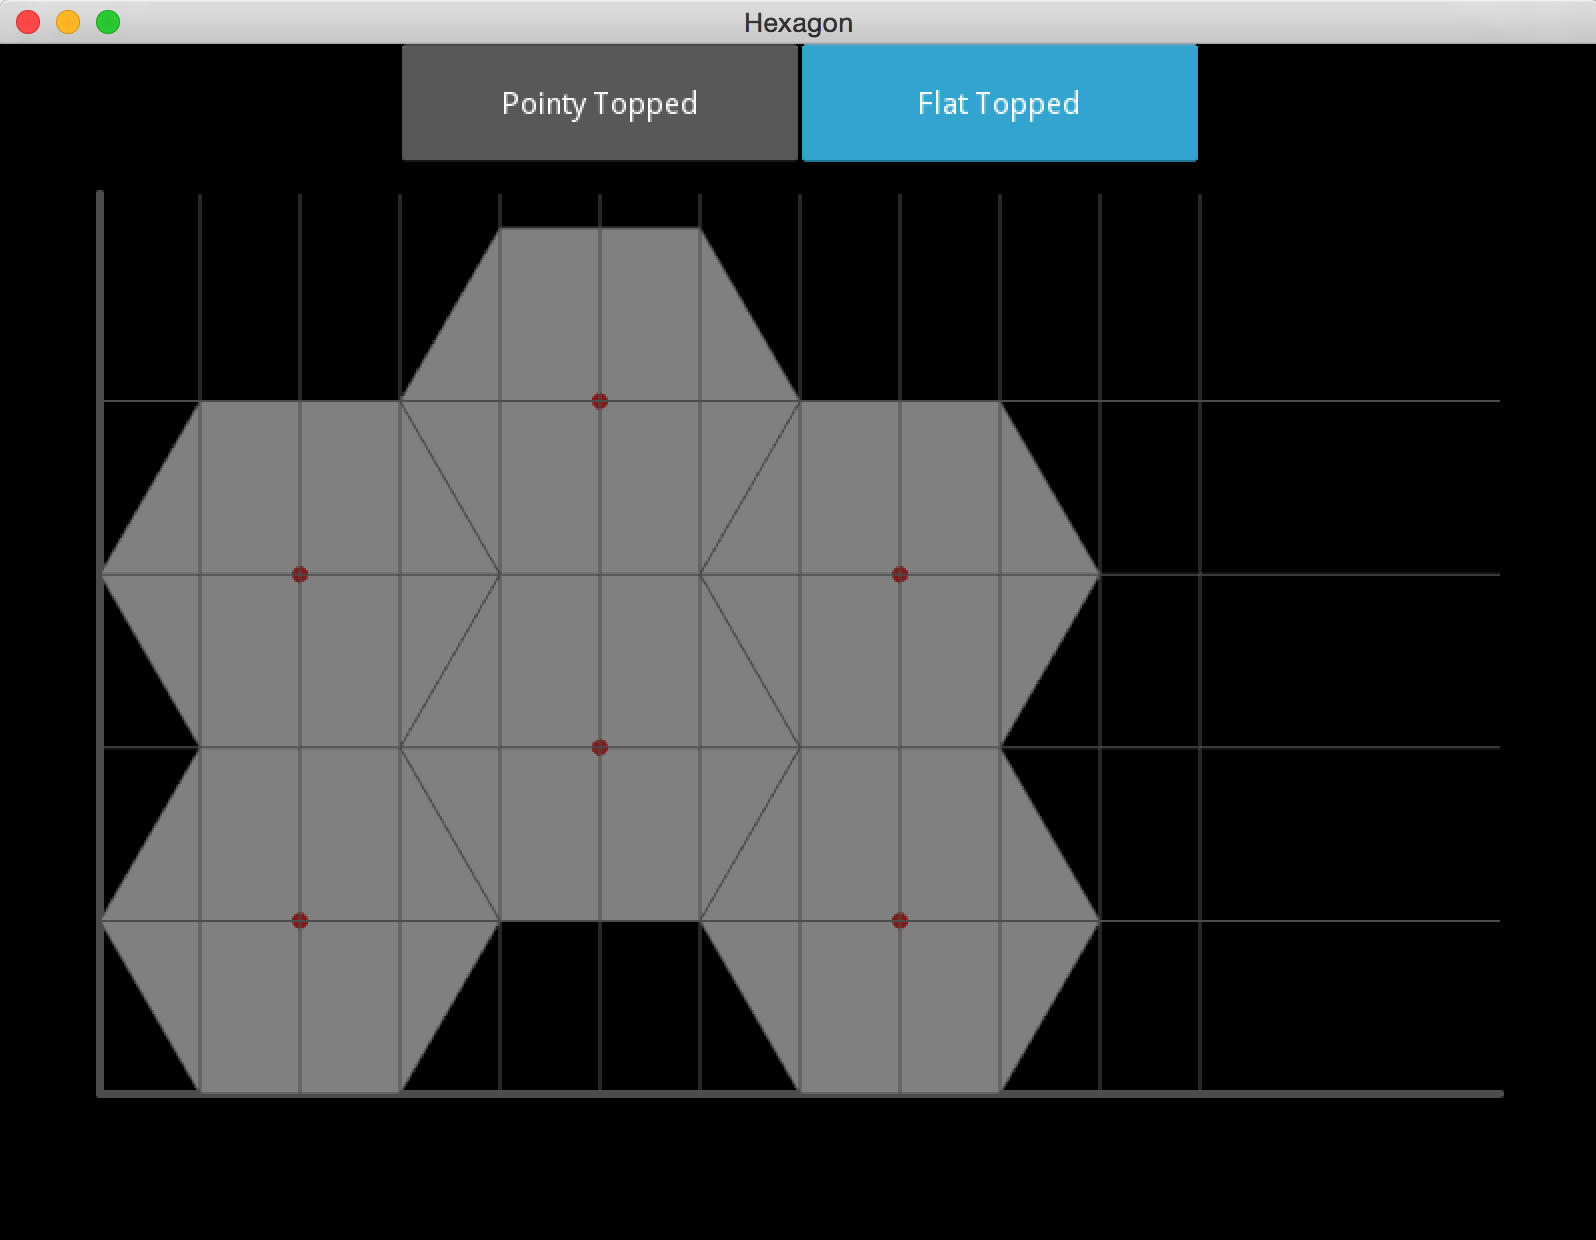
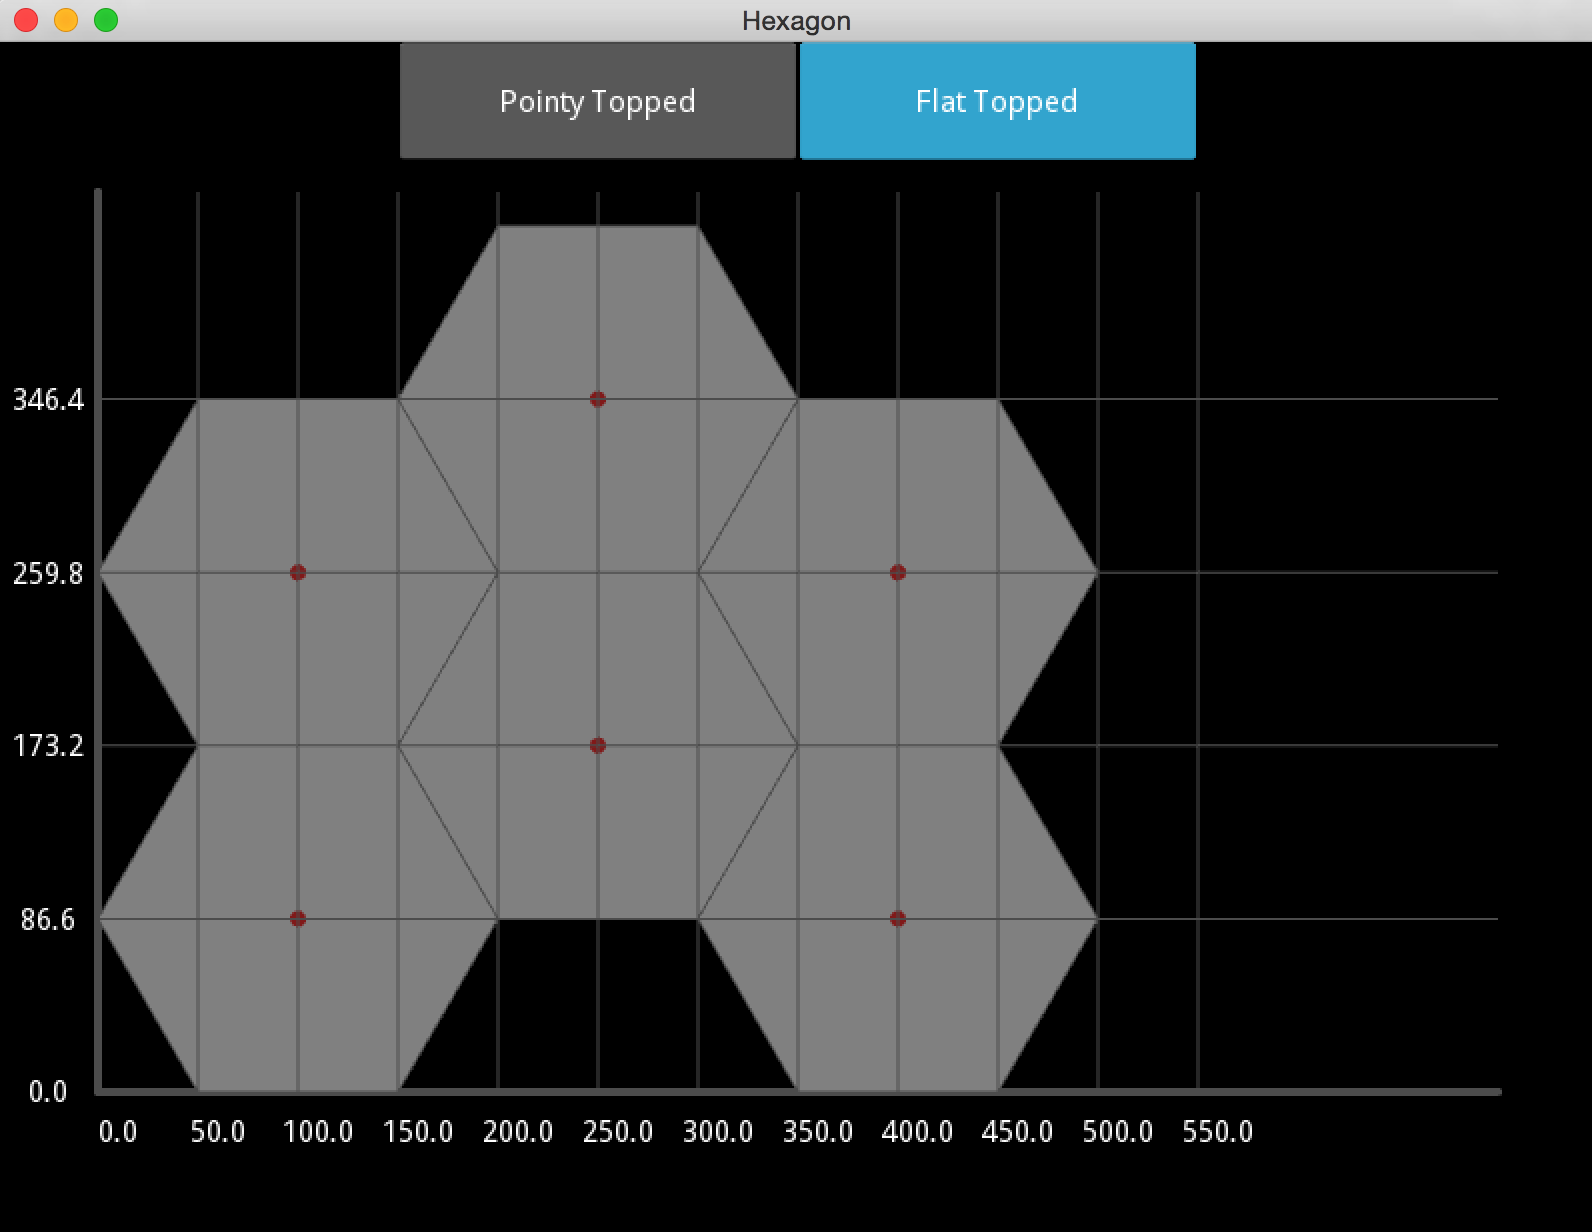
+ 눈금 표시

diff --git a/tutorials/013_hexagon_size_and_spacing/main.py b/tutorials/013_hexagon_size_and_spacing/main.py
@@ -247,6 +247,11 @@ class HexagonRoot(FloatLayout):
 
         self.bind(pos=self.render_canvas, size=self.render_canvas)
 
+        self.pool_v_line_labels = [Label(text="", pos_hint={}, size_hint=(None, None)) for i in xrange(20)]
+        self.pool_h_line_labels = [Label(text="", pos_hint={}, size_hint=(None, None)) for i in xrange(20)]
+        self.live_v_line_labels = []
+        self.live_h_line_labels = []
+
     def make_pointy_topped(self):
         KivyHexagon.set_hexagon_pointy_topped()
         self.render_canvas()
@@ -283,21 +288,49 @@ class HexagonRoot(FloatLayout):
             hexagon_div_h, hexagon_div_v = KivyHexagon.get_hexagon_div()
 
             Color(*self.AXIS_COLOR)
+            h_line_count = int(self.Y_AXIS_LEN / hexagon_height * hexagon_div_v)
+            h_line_step = hexagon_height / hexagon_div_v
             h_line_s_position = Position(origin_position)
             h_line_e_position = Position(h_line_s_position)
             h_line_e_position.x += self.X_AXIS_LEN
-            for row in xrange(0, int(self.Y_AXIS_LEN / hexagon_height * hexagon_div_v)):
-                Line(points=KivyHexagon.convert_line_points([h_line_s_position, h_line_e_position]))
-                h_line_s_position.y += hexagon_height / hexagon_div_v
-                h_line_e_position.y += hexagon_height / hexagon_div_v
 
+            for each_label in self.live_h_line_labels:
+                self.remove_widget(each_label)
+
+            self.live_h_line_labels = []
+            for i in xrange(0, int(self.Y_AXIS_LEN / hexagon_height * hexagon_div_v)):
+                Line(points=KivyHexagon.convert_line_points([h_line_s_position, h_line_e_position]))
+
+                h_line_label = self.pool_h_line_labels[i]
+                h_line_label.text = "{0:.1f}".format(i * h_line_step)
+                h_line_label.center = (origin_position.x - 25, h_line_s_position.y)
+                self.live_h_line_labels.append(h_line_label)
+                self.add_widget(h_line_label)
+
+                h_line_s_position.y += hexagon_height / hexagon_div_v
+                h_line_e_position.y = h_line_s_position.y
+
+            v_line_count = int(self.X_AXIS_LEN / hexagon_width * hexagon_div_h)
+            v_line_step = hexagon_width / hexagon_div_h
             v_line_s_position = Position(origin_position)
             v_line_e_position = Position(v_line_s_position)
             v_line_e_position.y += self.Y_AXIS_LEN
-            for row in xrange(0, int(self.X_AXIS_LEN / hexagon_width * hexagon_div_h)):
+
+            for each_label in self.live_v_line_labels:
+                self.remove_widget(each_label)
+
+            self.live_v_line_labels = []
+            for i in xrange(0, v_line_count):
                 Line(points=KivyHexagon.convert_line_points([v_line_s_position, v_line_e_position]))
-                v_line_s_position.x += hexagon_width / hexagon_div_h
-                v_line_e_position.x += hexagon_width / hexagon_div_h
+
+                v_line_label = self.pool_v_line_labels[i]
+                v_line_label.text = "{0:.1f}".format(i * v_line_step)
+                v_line_label.center = (v_line_s_position.x + 10, origin_position.y - 20)
+                self.live_v_line_labels.append(v_line_label)
+                self.add_widget(v_line_label)
+
+                v_line_s_position.x += v_line_step
+                v_line_e_position.x = v_line_s_position.x
 
 
 class HexagonApp(App):
